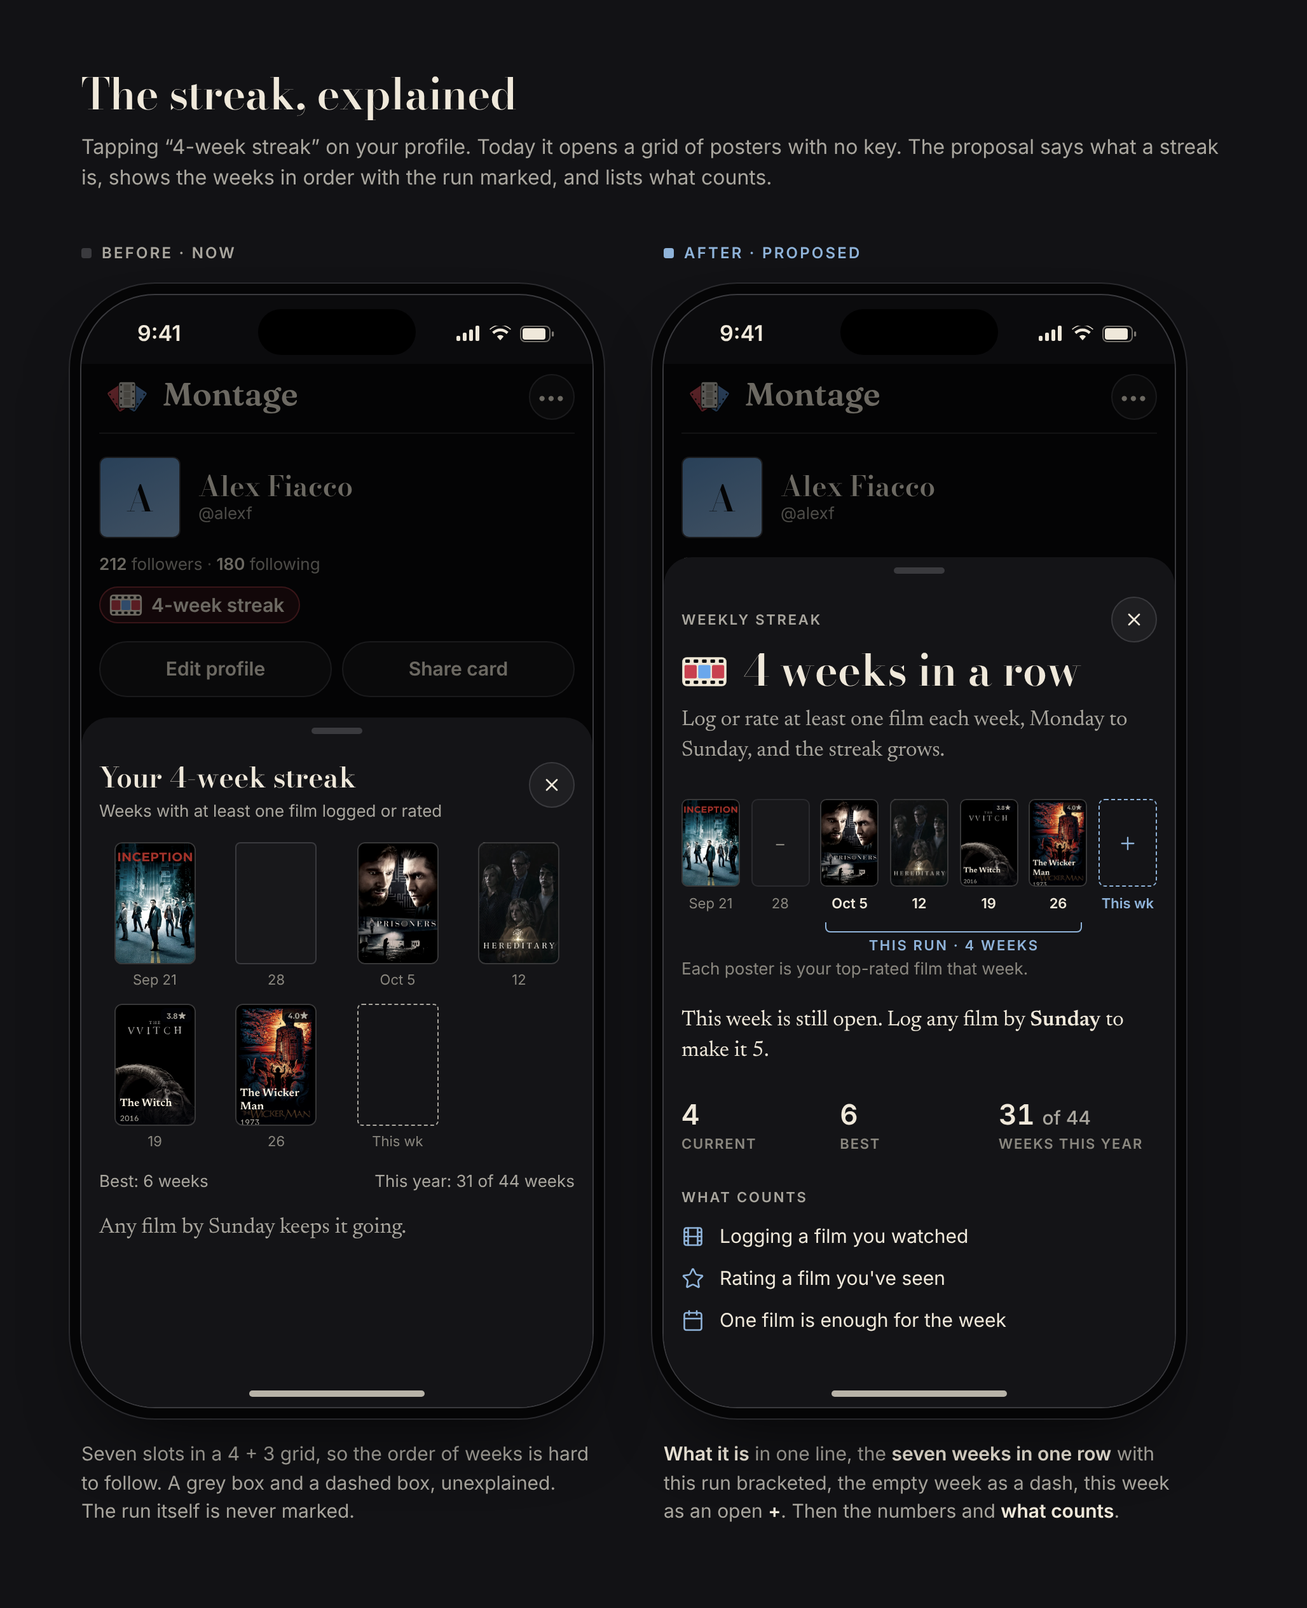
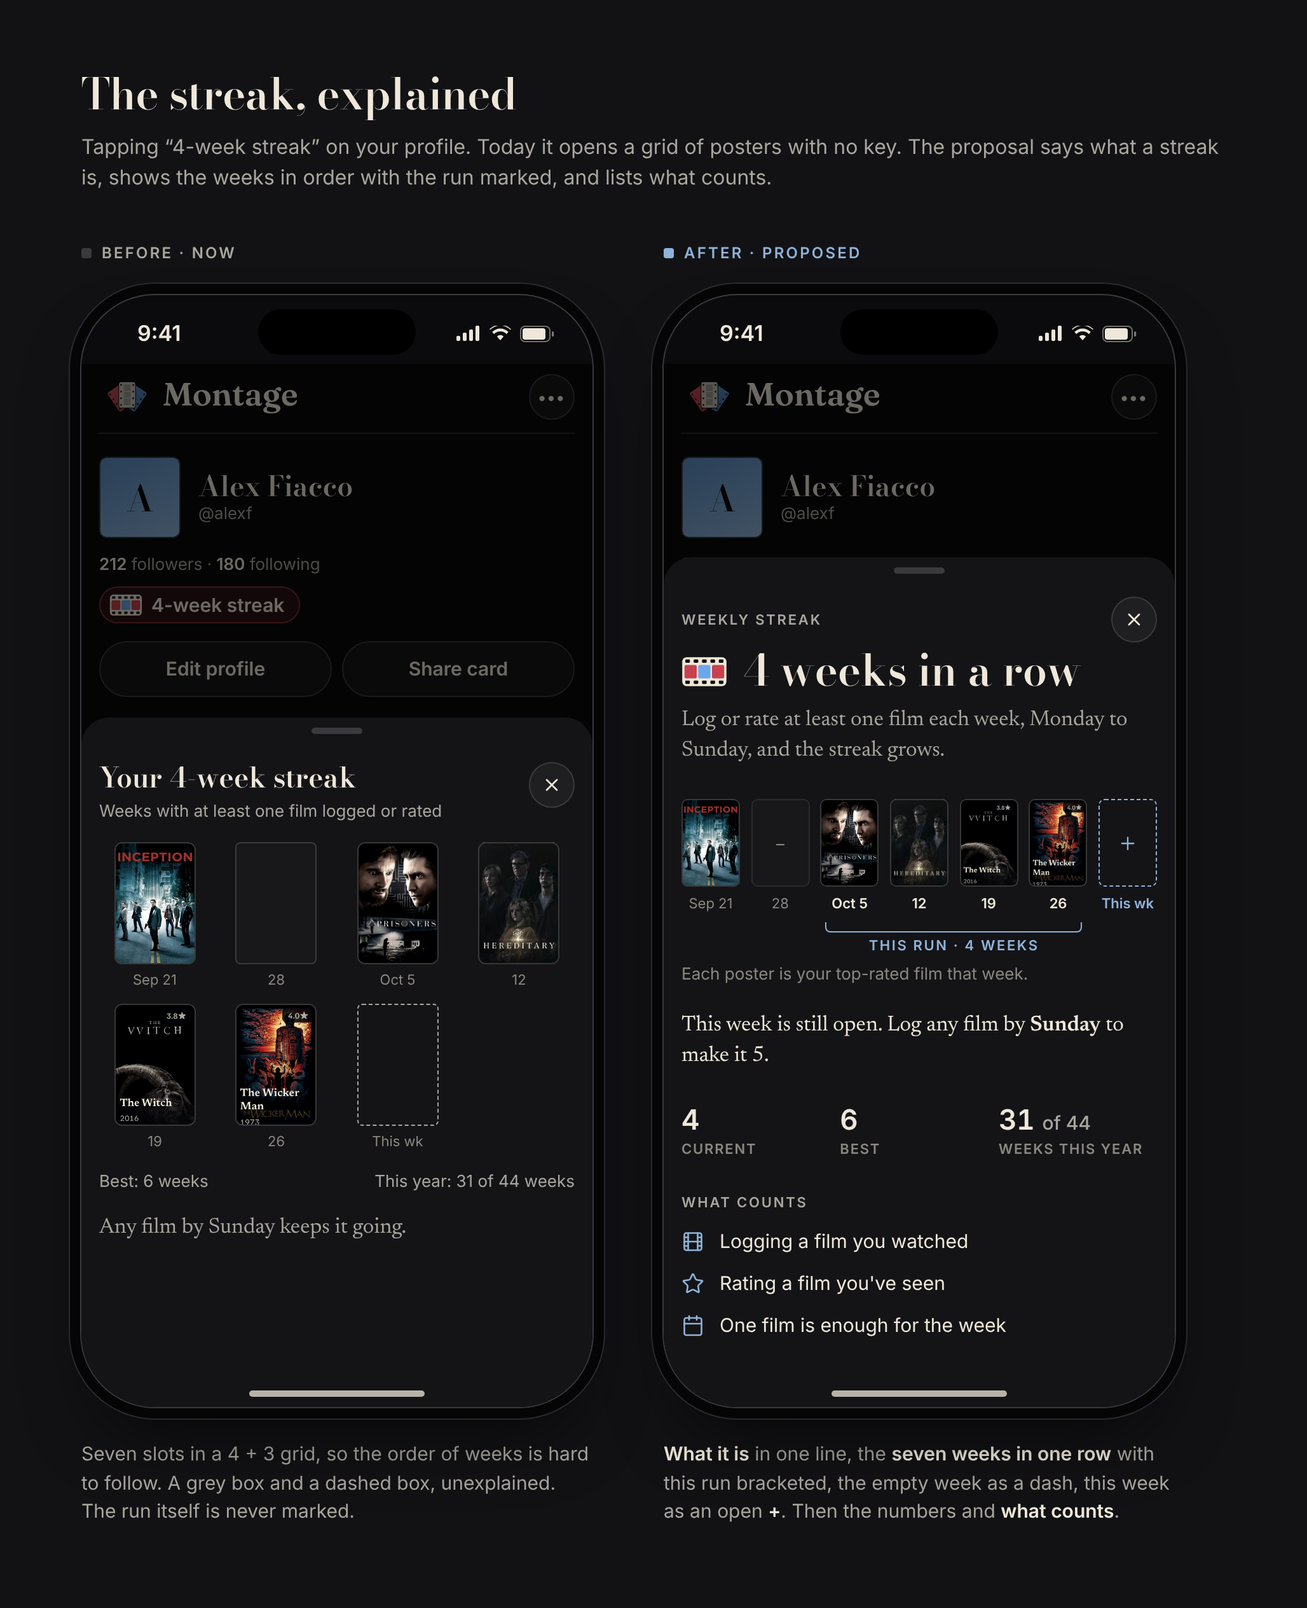
Mocks: Tonight result, Film DNA, People you gravitate to, streak drawer
Claude-Session: https://claude.ai/code/session_013WRDCFXH8nihP92apJAVW7

diff --git a/mockups/tonight-result-premium.html b/mockups/tonight-result-premium.html
@@ -1,0 +1,86 @@
+<!doctype html><html lang="en"><head><meta charset="utf-8"><meta name="viewport" content="width=device-width,initial-scale=1"><title>Tonight result</title><style>
+@import url('https://fonts.googleapis.com/css2?family=Bodoni+Moda:ital,opsz,wght@0,6..96,400..700;1,6..96,400..700&family=Inter:wght@400;500;600;700&family=Newsreader:opsz,wght@6..72,400;6..72,600&display=block');
+:root{--bg:#0B0B0D;--panel:#141417;--panel2:#18181B;--line:#2A2A2E;--line2:#3A3A3E;--ink:#EFE8DA;--muted:#A9A69E;--faint:#8A877F;--accent:#5B8FC4;--accent2:#8FB3D9;--ox:#7A1220;--board:#121215}
+*{box-sizing:border-box;margin:0;padding:0}
+body{background:var(--board);color:var(--ink);font:15px/1.4 Inter,system-ui,sans-serif;-webkit-font-smoothing:antialiased}
+.board{padding:56px 64px 64px;display:inline-block}
+.board h1{font:600 34px/1.1 "Bodoni Moda",serif;letter-spacing:-.2px}
+.board .lede{font:400 16px/1.5 Inter;color:var(--muted);margin-top:10px;max-width:900px}
+.cols{display:flex;gap:56px;margin-top:40px;align-items:flex-start}
+.col{width:402px;display:flex;flex-direction:column;gap:16px}
+.tag{font:600 12px Inter;letter-spacing:1.6px;text-transform:uppercase;color:var(--muted);display:flex;align-items:center;gap:8px}
+.tag.after{color:var(--accent2)}
+.tag i{display:inline-block;width:8px;height:8px;border-radius:2px;background:var(--line2)}
+.tag.after i{background:var(--accent2)}
+.cap{font:400 15px/1.5 Inter;color:var(--muted);max-width:402px}
+.cap b{color:var(--ink);font-weight:600}
+.phone{width:402px;height:874px;border-radius:58px;background:var(--bg);position:relative;overflow:hidden;box-shadow:0 0 0 1px #3A3A3E,0 0 0 9px #050506,0 0 0 10px #2a2a2e,0 30px 60px -20px rgba(0,0,0,.8);margin:10px}
+.col .phone{margin:10px 0}
+.sb{height:54px;display:flex;align-items:center;justify-content:space-between;padding:6px 30px 0 44px;font:600 17px Inter;color:var(--ink);position:relative;z-index:5}
+.island{position:absolute;top:11px;left:50%;transform:translateX(-50%);width:124px;height:36px;border-radius:20px;background:#000;z-index:6}
+.home{position:absolute;bottom:8px;left:50%;transform:translateX(-50%);width:138px;height:5px;border-radius:3px;background:rgba(239,232,218,.75);z-index:30}
+.scroll{position:absolute;top:54px;left:0;right:0;bottom:0;overflow:hidden}
+.page{padding:0 14px}
+.bodoni{font-family:"Bodoni Moda",serif}
+.read{font-family:Newsreader,serif}
+.h22{font:600 22px/1.15 "Bodoni Moda",serif;color:var(--ink)}
+.h18{font:500 18px/1.2 "Bodoni Moda",serif;color:var(--ink)}
+.meta{font:400 13px/1.35 Inter;color:var(--muted)}
+.caps{font:600 11px/1.3 Inter;letter-spacing:1.4px;text-transform:uppercase;color:var(--muted)}
+.reading{font:400 17px/1.45 Newsreader,serif;color:var(--muted)}
+.rule{height:1px;background:var(--line)}
+.rule2{height:1px;background:var(--line2)}
+.circ{width:36px;height:36px;border-radius:50%;background:rgba(255,255,255,.05);border:1px solid var(--line2);display:flex;align-items:center;justify-content:center;color:var(--ink);flex:none}
+.tabbar{position:absolute;left:0;right:0;bottom:0;height:84px;background:var(--panel);border-top:1px solid var(--line);display:flex;padding:0 8px;z-index:20}
+.tabbar .t{flex:1;display:flex;flex-direction:column;align-items:center;gap:2px;padding-top:8px;font:500 11px Inter;color:var(--faint)}
+.tabbar .t.on{color:var(--ink)}
+.tabbar .moon{width:50px;height:38px;border-radius:14px;background:var(--ink);display:flex;align-items:center;justify-content:center;margin-top:6px}
+.dim{position:absolute;inset:0;background:rgba(0,0,0,.55);z-index:25}
+.drawer{position:absolute;left:0;right:0;bottom:0;background:var(--panel);border-radius:22px 22px 0 0;z-index:26}
+.grab{width:40px;height:5px;border-radius:3px;background:var(--line2);margin:8px auto 4px}
+</style></head><body><div class="board"><h1>Tonight, your pick</h1><p class="lede">The result after a pick comes in. Same features, fewer things competing: one column, one shadow, one cream button.</p><div class="cols">
+  <div class="col"><div class="tag"><i></i>Before · now</div><div class="phone"><div class="island"></div><div class="sb"><span>9:41</span><span style="display:flex;gap:7px;align-items:center">
+  <svg width="19" height="12" viewBox="0 0 19 12"><rect x="0" y="8" width="3" height="4" rx="1" fill="#EFE8DA"/><rect x="5" y="5.5" width="3" height="6.5" rx="1" fill="#EFE8DA"/><rect x="10" y="3" width="3" height="9" rx="1" fill="#EFE8DA"/><rect x="15" y="0" width="3" height="12" rx="1" fill="#EFE8DA"/></svg>
+  <svg width="17" height="12" viewBox="0 0 17 12"><path d="M8.5 11.5l2.6-3a3.6 3.6 0 0 0-5.2 0z" fill="#EFE8DA"/><path d="M3.6 6.6a6.9 6.9 0 0 1 9.8 0l1.5-1.7a9.2 9.2 0 0 0-12.8 0z" fill="#EFE8DA"/><path d="M.6 3.3a11 11 0 0 1 15.8 0L17 2.6A12.6 12.6 0 0 0 0 2.6z" fill="#EFE8DA" opacity=".9"/></svg>
+  <svg width="27" height="13" viewBox="0 0 27 13"><rect x=".5" y=".5" width="23" height="12" rx="3.5" fill="none" stroke="#EFE8DA" opacity=".45"/><rect x="2" y="2" width="18" height="9" rx="2" fill="#EFE8DA"/><rect x="25" y="4.5" width="1.6" height="4" rx=".8" fill="#EFE8DA" opacity=".5"/></svg></span></div><div class="scroll"><div class="page"><div style="display:flex;align-items:center;gap:12px;padding:4px 0 0"><span class="circ"><svg width="18" height="18" viewBox="0 0 24 24" fill="none" stroke="#EFE8DA" stroke-width="2" stroke-linecap="round" stroke-linejoin="round" ><path d="m15 18-6-6 6-6"/></svg></span><div style="flex:1"><div class="caps">Tonight</div><div style="font:500 22px/1.15 'Bodoni Moda',serif;margin-top:2px">Your pick</div></div><span class="circ"><svg width="16" height="16" viewBox="0 0 24 24" fill="none" stroke="#EFE8DA" stroke-width="2" stroke-linecap="round" stroke-linejoin="round" ><path d="M12 2v13"/><path d="m16 6-4-4-4 4"/><path d="M4 12v8a2 2 0 0 0 2 2h12a2 2 0 0 0 2-2v-8"/></svg></span></div>
+  <div style="display:flex;justify-content:center;padding-top:22px"><div style="position:relative;width:249px;height:374px">
+    <div style="position:absolute;inset:0;transform:translate(7px,7px);background:#7A1220;border-radius:6px"></div>
+    <img src="img/prisoners.png" style="position:relative;width:249px;height:374px;object-fit:cover;border-radius:6px;outline:1px solid rgba(239,232,218,.85);outline-offset:-1px;filter:saturate(.8) contrast(1.05) sepia(.08)"></div></div>
+  <div style="display:flex;align-items:flex-end;gap:12px;margin-top:26px">
+    <div style="flex:1;display:flex;flex-direction:column;gap:6px;align-items:flex-start">
+      <span style="font:600 11px Inter;letter-spacing:1.6px;text-transform:uppercase;color:#8FB3D9">Rewatch · Drama</span>
+      <span style="font:600 28px/1.1 'Bodoni Moda',serif">Prisoners</span>
+      <span class="meta">2013 · 2h 33m · Denis Villeneuve</span>
+      <span style="display:inline-flex;align-items:center;gap:5px;font:600 13px Inter;color:#EFE8DA;padding:3px 9px;border:1px solid #3A3A3E;border-radius:999px"><svg width="11" height="11" viewBox="0 0 24 24" fill="none" stroke="#EFE8DA" stroke-width="2.5" stroke-linecap="round" stroke-linejoin="round" ><path d="M20 6 9 17l-5-5"/></svg>Drama</span>
+      <span style="font:italic 400 18px/1.25 'Bodoni Moda',serif;color:#D8D1C3">Slow-burn crime</span>
+      <span class="meta">You rated it ★★★★★</span>
+    </div>
+    <div style="text-align:right"><div style="color:#8FB3D9;white-space:nowrap"><span style="font:400 40px/1 'Bodoni Moda',serif">92</span><span style="font:400 18px 'Bodoni Moda',serif">%</span></div><div class="meta">match</div></div>
+  </div>
+  <div style="position:relative;height:64px;border-radius:10px;background:#EDE6D6;display:flex;margin-top:18px"><span style="position:absolute;left:-7px;top:50%;margin-top:-7px;width:14px;height:14px;border-radius:50%;background:#0B0B0D"></span><span style="position:absolute;right:-7px;top:50%;margin-top:-7px;width:14px;height:14px;border-radius:50%;background:#0B0B0D"></span>
+  <div style="flex:1;display:flex;flex-direction:column;align-items:center;justify-content:center;gap:5px;color:#141210;font:600 15px Inter"><svg width="17" height="17" viewBox="0 0 24 24"><path d="M7 4.5v15a1 1 0 0 0 1.5.86l12.4-7.5a1 1 0 0 0 0-1.72L8.5 3.64A1 1 0 0 0 7 4.5z" fill="#141210"/></svg><span>Trailer</span></div><span style="width:0;border-left:1px dashed #B8AE9A;margin:2px 0"></span><div style="flex:1;display:flex;flex-direction:column;align-items:center;justify-content:center;gap:5px;color:#141210;font:600 15px Inter"><svg width="18" height="18" viewBox="0 0 24 24" fill="none" stroke="#141210" stroke-width="1.75" stroke-linecap="round" stroke-linejoin="round" ><path d="M17 3a2 2 0 0 1 2 2v15a1 1 0 0 1-1.496.868l-4.512-2.578a2 2 0 0 0-1.984 0l-4.512 2.578A1 1 0 0 1 5 20V5a2 2 0 0 1 2-2z"/></svg><span>Watchlist</span></div><span style="width:0;border-left:1px dashed #B8AE9A;margin:2px 0"></span><div style="flex:1;display:flex;flex-direction:column;align-items:center;justify-content:center;gap:5px;color:#141210;font:600 15px Inter"><svg width="18" height="18" viewBox="0 0 24 24" fill="none" stroke="#141210" stroke-width="1.75" stroke-linecap="round" stroke-linejoin="round" ><path d="M21 12a9 9 0 1 1-9-9c2.52 0 4.93 1 6.74 2.74L21 8"/><path d="M21 3v5h-5"/></svg><span>Re-roll</span></div></div>
+  <div style="margin-top:12px;height:52px;border-radius:999px;background:#EFE8DA;color:#0B0B0D;font:600 15px Inter;display:flex;align-items:center;justify-content:center">Watching this tonight</div>
+</div></div><div class="tabbar"><div class="t"><svg width="20" height="20" viewBox="0 0 24 24" fill="none" stroke="#8A877F" stroke-width="1.75" stroke-linecap="round" stroke-linejoin="round" ><path d="M18 8a2 2 0 0 0 0-4 2 2 0 0 0-4 0 2 2 0 0 0-4 0 2 2 0 0 0-4 0 2 2 0 0 0 0 4"/><path d="M10 22 9 8"/><path d="m14 22 1-14"/><path d="M20 8c.5 0 .9.4.8 1l-2.6 12c-.1.5-.7 1-1.2 1H7c-.6 0-1.1-.4-1.2-1L3.2 9c-.1-.6.3-1 .8-1Z"/></svg><span>Picks</span></div><div class="t"><svg width="20" height="20" viewBox="0 0 24 24" fill="none" stroke="#8A877F" stroke-width="1.75" stroke-linecap="round" stroke-linejoin="round" ><path d="m21 21-4.34-4.34"/><circle cx="11" cy="11" r="8"/></svg><span>Browse</span></div><div class="t"><div class="moon"><svg width="18" height="18" viewBox="0 0 24 24" fill="none" stroke="#0B0B0D" stroke-width="2" stroke-linecap="round" stroke-linejoin="round" fill="#0B0B0D"><path d="M20.985 12.486a9 9 0 1 1-9.473-9.472c.405-.022.617.46.402.803a6 6 0 0 0 8.268 8.268c.344-.215.825-.004.803.401"/></svg></div></div><div class="t"><svg width="20" height="20" viewBox="0 0 24 24" fill="none" stroke="#8A877F" stroke-width="1.75" stroke-linecap="round" stroke-linejoin="round" ><path d="M16 21v-2a4 4 0 0 0-4-4H6a4 4 0 0 0-4 4v2"/><path d="M16 3.128a4 4 0 0 1 0 7.744"/><path d="M22 21v-2a4 4 0 0 0-3-3.87"/><circle cx="9" cy="7" r="4"/></svg><span>Social</span></div><div class="t"><svg width="20" height="20" viewBox="0 0 24 24" fill="none" stroke="#8A877F" stroke-width="1.75" stroke-linecap="round" stroke-linejoin="round" ><path d="M10 11h.01"/><path d="M14 6h.01"/><path d="M18 6h.01"/><path d="M6.5 13.1h.01"/><path d="M22 5c0 9-4 12-6 12s-6-3-6-12c0-2 2-3 6-3s6 1 6 3"/><path d="M17.4 9.9c-.8.8-2 .8-2.8 0"/><path d="M10.1 7.1C9 7.2 7.7 7.7 6 8.6c-3.5 2-4.7 3.9-3.7 5.6 4.5 7.8 9.5 8.4 11.2 7.4.9-.5 1.9-2.1 1.9-4.7"/><path d="M9.1 16.5c.3-1.1 1.4-1.7 2.4-1.4"/></svg><span>Profile</span></div></div><div class="home"></div></div><p class="cap">Seven lines stacked left against a big number on the right. A ✓ Drama chip repeats the recap. Two cream blocks compete, and the main button sits under the tab bar.</p></div>
+  <div class="col"><div class="tag after"><i></i>After · proposed</div><div class="phone"><div class="island"></div><div class="sb"><span>9:41</span><span style="display:flex;gap:7px;align-items:center">
+  <svg width="19" height="12" viewBox="0 0 19 12"><rect x="0" y="8" width="3" height="4" rx="1" fill="#EFE8DA"/><rect x="5" y="5.5" width="3" height="6.5" rx="1" fill="#EFE8DA"/><rect x="10" y="3" width="3" height="9" rx="1" fill="#EFE8DA"/><rect x="15" y="0" width="3" height="12" rx="1" fill="#EFE8DA"/></svg>
+  <svg width="17" height="12" viewBox="0 0 17 12"><path d="M8.5 11.5l2.6-3a3.6 3.6 0 0 0-5.2 0z" fill="#EFE8DA"/><path d="M3.6 6.6a6.9 6.9 0 0 1 9.8 0l1.5-1.7a9.2 9.2 0 0 0-12.8 0z" fill="#EFE8DA"/><path d="M.6 3.3a11 11 0 0 1 15.8 0L17 2.6A12.6 12.6 0 0 0 0 2.6z" fill="#EFE8DA" opacity=".9"/></svg>
+  <svg width="27" height="13" viewBox="0 0 27 13"><rect x=".5" y=".5" width="23" height="12" rx="3.5" fill="none" stroke="#EFE8DA" opacity=".45"/><rect x="2" y="2" width="18" height="9" rx="2" fill="#EFE8DA"/><rect x="25" y="4.5" width="1.6" height="4" rx=".8" fill="#EFE8DA" opacity=".5"/></svg></span></div><div class="scroll"><div class="page"><div style="display:flex;align-items:center;justify-content:space-between;padding:4px 0 0"><span class="circ"><svg width="18" height="18" viewBox="0 0 24 24" fill="none" stroke="#EFE8DA" stroke-width="2" stroke-linecap="round" stroke-linejoin="round" ><path d="m15 18-6-6 6-6"/></svg></span><span class="caps">Tonight · Your pick</span><span class="circ"><svg width="16" height="16" viewBox="0 0 24 24" fill="none" stroke="#EFE8DA" stroke-width="2" stroke-linecap="round" stroke-linejoin="round" ><path d="M12 2v13"/><path d="m16 6-4-4-4 4"/><path d="M4 12v8a2 2 0 0 0 2 2h12a2 2 0 0 0 2-2v-8"/></svg></span></div>
+  <div style="display:flex;justify-content:center;padding-top:20px"><div style="position:relative;width:224px;height:336px">
+    <div style="position:absolute;inset:0;transform:translate(6px,6px);background:#7A1220;border-radius:6px"></div>
+    <img src="img/prisoners.png" style="position:relative;width:224px;height:336px;object-fit:cover;border-radius:6px;outline:1px solid rgba(239,232,218,.85);outline-offset:-1px;filter:saturate(.8) contrast(1.05) sepia(.08)"></div></div>
+  <div style="text-align:center;margin-top:24px">
+    <div style="font:600 11px Inter;letter-spacing:1.6px;text-transform:uppercase;color:#8FB3D9;display:flex;justify-content:center;align-items:center;gap:6px">Rewatch<span style="color:#8A877F">·</span><svg width="11" height="11" viewBox="0 0 24 24" fill="none" stroke="#8FB3D9" stroke-width="2.5" stroke-linecap="round" stroke-linejoin="round" ><path d="M20 6 9 17l-5-5"/></svg>Drama</div>
+    <div style="font:600 34px/1.1 'Bodoni Moda',serif;margin-top:8px">Prisoners</div>
+    <div class="meta" style="margin-top:6px">2013 · 2h 33m · Denis Villeneuve</div>
+    <div style="font:italic 400 18px/1.3 'Bodoni Moda',serif;color:#D8D1C3;margin-top:6px">Slow-burn crime</div>
+  </div>
+  <div style="display:flex;align-items:center;justify-content:center;margin-top:16px">
+    <div style="flex:1;display:flex;align-items:baseline;justify-content:flex-end;gap:6px;padding-right:18px;color:#8FB3D9"><span style="font:400 36px/1 'Bodoni Moda',serif">92%</span><span class="meta">match</span></div>
+    <span style="width:1px;height:30px;background:#3A3A3E"></span>
+    <div style="flex:1;display:flex;align-items:baseline;gap:6px;padding-left:18px"><span style="font:400 15px Inter;letter-spacing:1px;color:#8FB3D9">★★★★★</span><span class="meta">you rated it</span></div>
+  </div>
+  <div style="position:relative;height:54px;border-radius:12px;background:#16161A;border:1px solid #3A3A3E;display:flex;margin-top:22px">
+  <span style="position:absolute;left:-8px;top:50%;margin-top:-8px;width:16px;height:16px;border-radius:50%;background:#0B0B0D;border:1px solid #3A3A3E;clip-path:inset(0 0 0 50%)"></span><span style="position:absolute;right:-8px;top:50%;margin-top:-8px;width:16px;height:16px;border-radius:50%;background:#0B0B0D;border:1px solid #3A3A3E;clip-path:inset(0 50% 0 0)"></span>
+  <div style="flex:1;display:flex;align-items:center;justify-content:center;gap:8px;font:600 15px Inter;color:#EFE8DA"><svg width="17" height="17" viewBox="0 0 24 24" fill="none" stroke="#8FB3D9" stroke-width="1.75" stroke-linecap="round" stroke-linejoin="round" ><path d="M5 5a2 2 0 0 1 3.008-1.728l11.997 6.998a2 2 0 0 1 .003 3.458l-12 7A2 2 0 0 1 5 19z"/></svg><span>Trailer</span></div><span style="width:0;border-left:1px dashed #3A3A3E;margin:10px 0"></span><div style="flex:1;display:flex;align-items:center;justify-content:center;gap:8px;font:600 15px Inter;color:#EFE8DA"><svg width="17" height="17" viewBox="0 0 24 24" fill="none" stroke="#8FB3D9" stroke-width="1.75" stroke-linecap="round" stroke-linejoin="round" ><path d="M17 3a2 2 0 0 1 2 2v15a1 1 0 0 1-1.496.868l-4.512-2.578a2 2 0 0 0-1.984 0l-4.512 2.578A1 1 0 0 1 5 20V5a2 2 0 0 1 2-2z"/></svg><span>Watchlist</span></div><span style="width:0;border-left:1px dashed #3A3A3E;margin:10px 0"></span><div style="flex:1;display:flex;align-items:center;justify-content:center;gap:8px;font:600 15px Inter;color:#EFE8DA"><svg width="17" height="17" viewBox="0 0 24 24" fill="none" stroke="#8FB3D9" stroke-width="1.75" stroke-linecap="round" stroke-linejoin="round" ><path d="M21 12a9 9 0 1 1-9-9c2.52 0 4.93 1 6.74 2.74L21 8"/><path d="M21 3v5h-5"/></svg><span>Re-roll</span></div></div>
+  <div style="margin-top:12px;height:52px;border-radius:999px;background:#EFE8DA;color:#0B0B0D;font:600 15px Inter;display:flex;align-items:center;justify-content:center">Watching this tonight</div>
+</div></div><div class="tabbar"><div class="t"><svg width="20" height="20" viewBox="0 0 24 24" fill="none" stroke="#8A877F" stroke-width="1.75" stroke-linecap="round" stroke-linejoin="round" ><path d="M18 8a2 2 0 0 0 0-4 2 2 0 0 0-4 0 2 2 0 0 0-4 0 2 2 0 0 0-4 0 2 2 0 0 0 0 4"/><path d="M10 22 9 8"/><path d="m14 22 1-14"/><path d="M20 8c.5 0 .9.4.8 1l-2.6 12c-.1.5-.7 1-1.2 1H7c-.6 0-1.1-.4-1.2-1L3.2 9c-.1-.6.3-1 .8-1Z"/></svg><span>Picks</span></div><div class="t"><svg width="20" height="20" viewBox="0 0 24 24" fill="none" stroke="#8A877F" stroke-width="1.75" stroke-linecap="round" stroke-linejoin="round" ><path d="m21 21-4.34-4.34"/><circle cx="11" cy="11" r="8"/></svg><span>Browse</span></div><div class="t"><div class="moon"><svg width="18" height="18" viewBox="0 0 24 24" fill="none" stroke="#0B0B0D" stroke-width="2" stroke-linecap="round" stroke-linejoin="round" fill="#0B0B0D"><path d="M20.985 12.486a9 9 0 1 1-9.473-9.472c.405-.022.617.46.402.803a6 6 0 0 0 8.268 8.268c.344-.215.825-.004.803.401"/></svg></div></div><div class="t"><svg width="20" height="20" viewBox="0 0 24 24" fill="none" stroke="#8A877F" stroke-width="1.75" stroke-linecap="round" stroke-linejoin="round" ><path d="M16 21v-2a4 4 0 0 0-4-4H6a4 4 0 0 0-4 4v2"/><path d="M16 3.128a4 4 0 0 1 0 7.744"/><path d="M22 21v-2a4 4 0 0 0-3-3.87"/><circle cx="9" cy="7" r="4"/></svg><span>Social</span></div><div class="t"><svg width="20" height="20" viewBox="0 0 24 24" fill="none" stroke="#8A877F" stroke-width="1.75" stroke-linecap="round" stroke-linejoin="round" ><path d="M10 11h.01"/><path d="M14 6h.01"/><path d="M18 6h.01"/><path d="M6.5 13.1h.01"/><path d="M22 5c0 9-4 12-6 12s-6-3-6-12c0-2 2-3 6-3s6 1 6 3"/><path d="M17.4 9.9c-.8.8-2 .8-2.8 0"/><path d="M10.1 7.1C9 7.2 7.7 7.7 6 8.6c-3.5 2-4.7 3.9-3.7 5.6 4.5 7.8 9.5 8.4 11.2 7.4.9-.5 1.9-2.1 1.9-4.7"/><path d="M9.1 16.5c.3-1.1 1.4-1.7 2.4-1.4"/></svg><span>Profile</span></div></div><div class="home"></div></div><p class="cap"><b>Centred</b> under the poster. The chip folds into the recap as <b>✓ Drama</b>. <b>92% match</b> and <b>your stars</b> share one line. The stub goes dark with blue icons, so <b>Watching this tonight</b> is the one cream action, and it clears the tab bar.</p></div></div></div></body></html>

diff --git a/mockups/streak-drawer-clear.html b/mockups/streak-drawer-clear.html
@@ -145,7 +145,7 @@ body{background:var(--board);color:var(--ink);font:15px/1.4 Inter,system-ui,sans
   <div style="position:relative;height:22px;margin-top:8px">
   <div style="position:absolute;left:113.33333333333333px;width:202px;top:0;height:8px;border:1.5px solid #8FB3D9;border-top:0;border-radius:0 0 4px 4px"></div>
   <div style="position:absolute;left:109.33333333333333px;width:210px;top:11px;text-align:center;font:600 11px Inter;letter-spacing:1.3px;text-transform:uppercase;color:#8FB3D9">This run · 4 weeks</div></div>
-  <p class="meta" style="color:#8A877F;margin-top:6px">Each poster is your top-rated film that week.</p>
+  <p class="meta" style="color:#8A877F;margin-top:10px">Each poster is your top-rated film that week.</p>
   <p style="font:400 17px/1.45 Newsreader,serif;color:#EFE8DA;margin-top:20px">This week is still open. Log any film by <b style="font-weight:600">Sunday</b> to make it 5.</p>
   <div style="display:flex;margin-top:24px"><div style="flex:1"><div style="font:600 22px/1.1 Inter;color:#EFE8DA;font-variant-numeric:tabular-nums">4</div><div style="font:600 11px Inter;letter-spacing:.9px;text-transform:uppercase;color:#8A877F;margin-top:4px">Current</div></div><div style="flex:1"><div style="font:600 22px/1.1 Inter;color:#EFE8DA;font-variant-numeric:tabular-nums">6</div><div style="font:600 11px Inter;letter-spacing:.9px;text-transform:uppercase;color:#8A877F;margin-top:4px">Best</div></div><div style="flex:1"><div style="font:600 22px/1.1 Inter;color:#EFE8DA;font-variant-numeric:tabular-nums">31 <span style='font-size:15px;color:#A9A69E;font-weight:500'>of 44</span></div><div style="font:600 11px Inter;letter-spacing:.9px;text-transform:uppercase;color:#8A877F;margin-top:4px">Weeks this year</div></div></div>
   <div class="caps" style="margin-top:28px">What counts</div>
